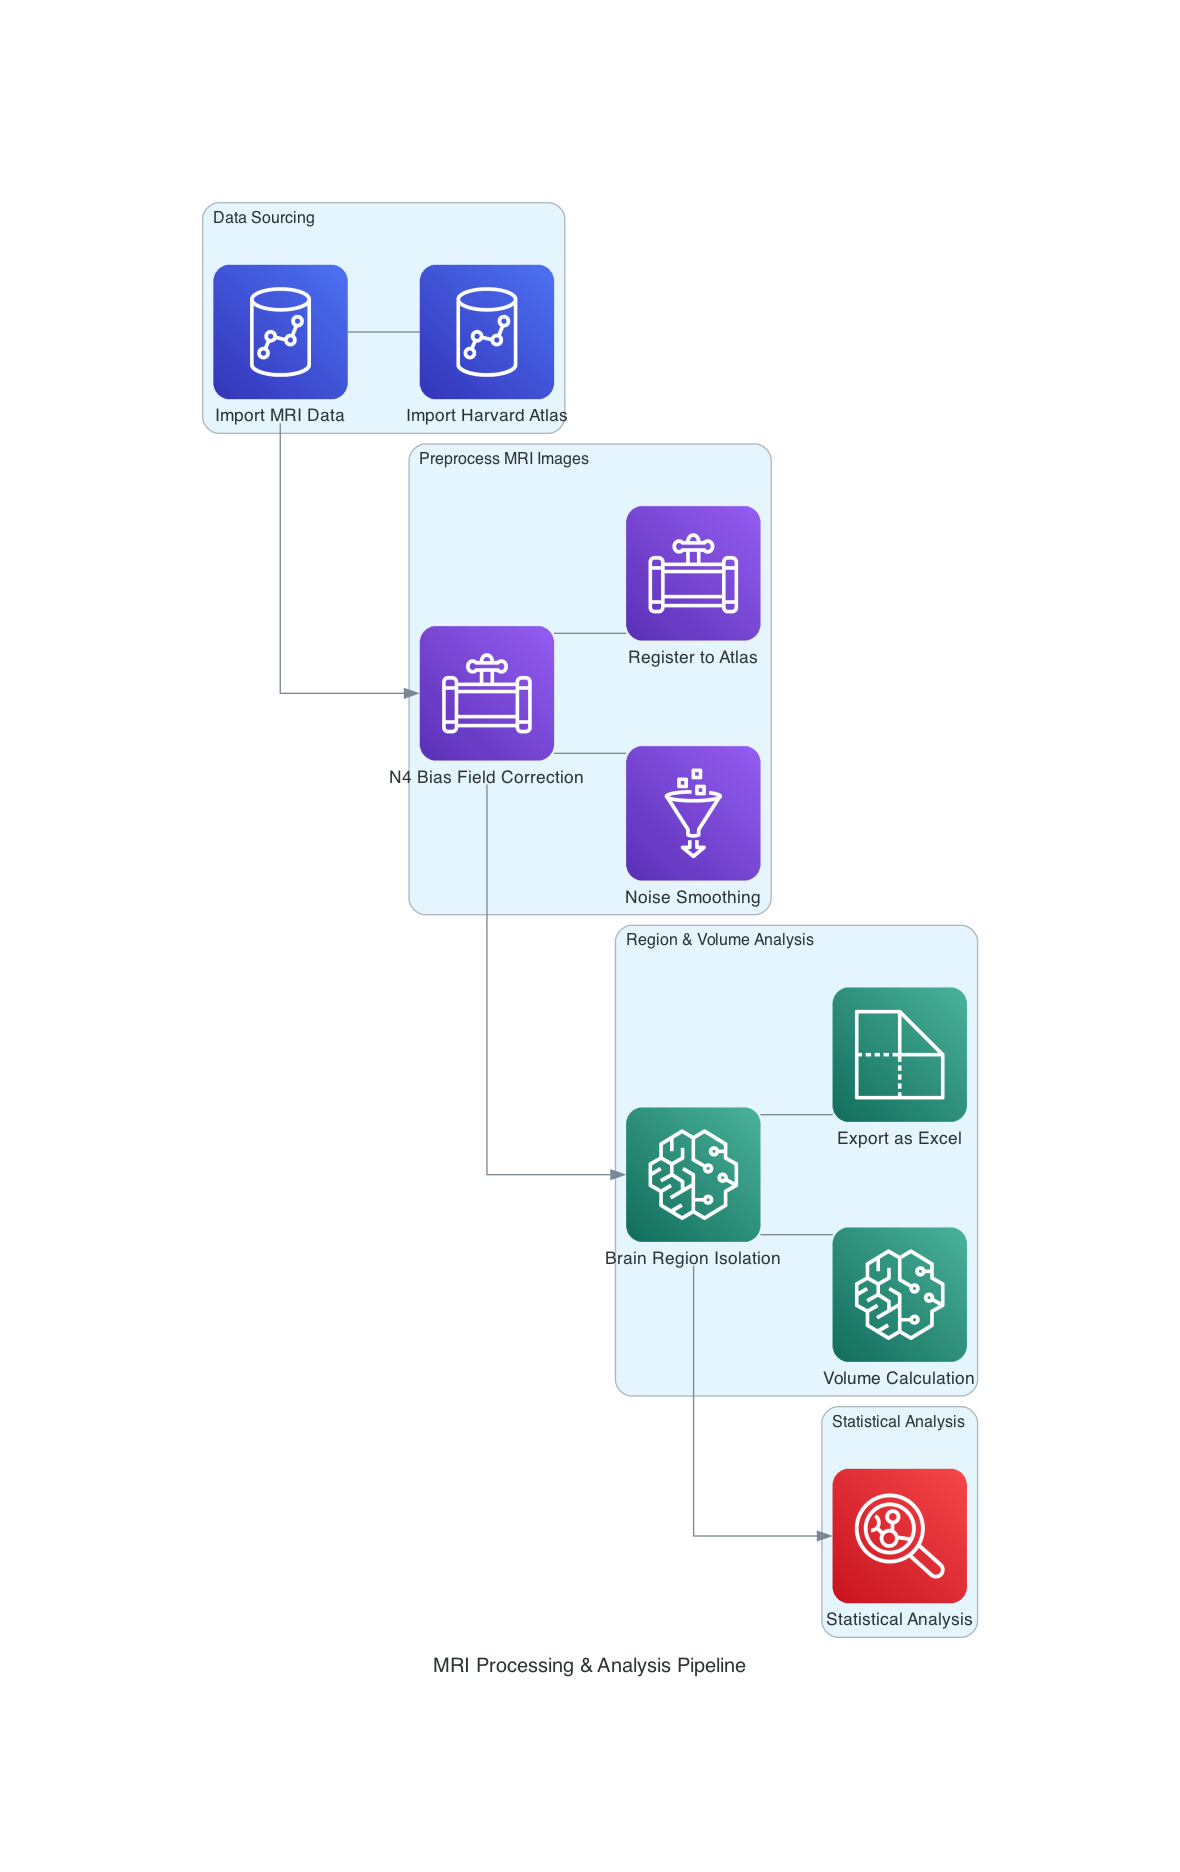
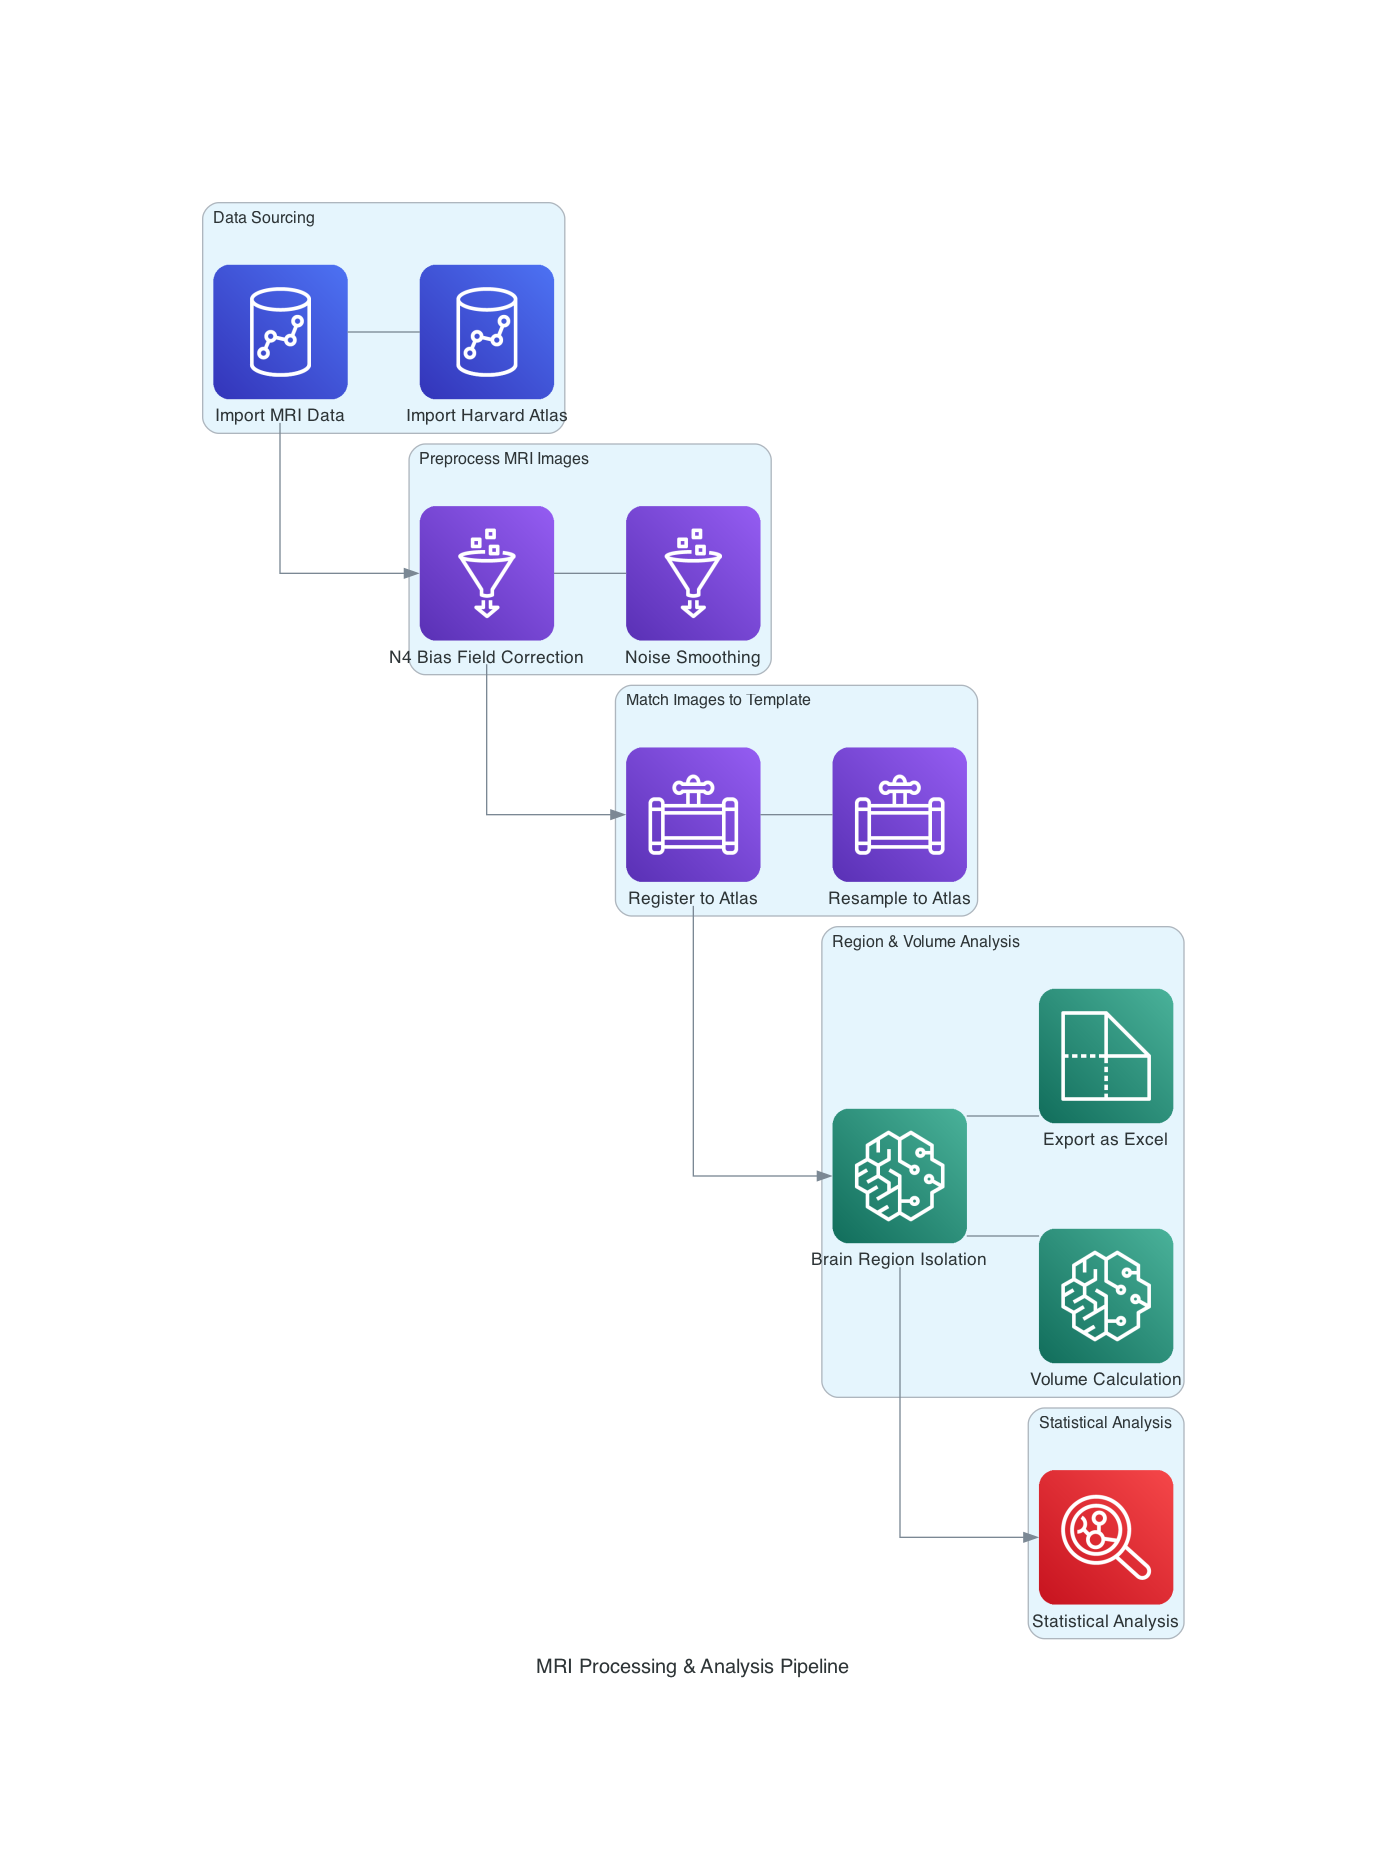
Backup: Wed Jan  8 20:05:19 IST 2025

Changed region(s): [[0.122, 0.0929, 0.8542, 0.8985], [0.3661, 0.8675, 0.6102, 0.8985]]

diff --git a/diagram.py b/diagram.py
@@ -19,10 +19,13 @@ with Diagram("MRI Processing & Analysis Pipeline", show=False, direction="LR"):
 
     # 2-4. Preprocessing
     with Cluster("Preprocess MRI Images"):
-        n4_correction = DataPipeline("N4 Bias Field Correction")
+        n4_correction = Glue("N4 Bias Field Correction")
         n4_correction - Glue("Noise Smoothing")
-        n4_correction - DataPipeline("Register to Atlas")
         
+
+    with Cluster("Match Images to Template"):   
+        register = DataPipeline("Register to Atlas")
+        register - DataPipeline("Resample to Atlas")
     # 5-5.5. Region & Volume Analysis
     with Cluster("Region & Volume Analysis"):
         region_isolation = Sagemaker("Brain Region Isolation")
@@ -35,5 +38,6 @@ with Diagram("MRI Processing & Analysis Pipeline", show=False, direction="LR"):
 
     # Flow Connections
     find_files >> n4_correction
-    n4_correction >> region_isolation
+    n4_correction >> register
+    register >> region_isolation
     region_isolation >> stat_analysis
